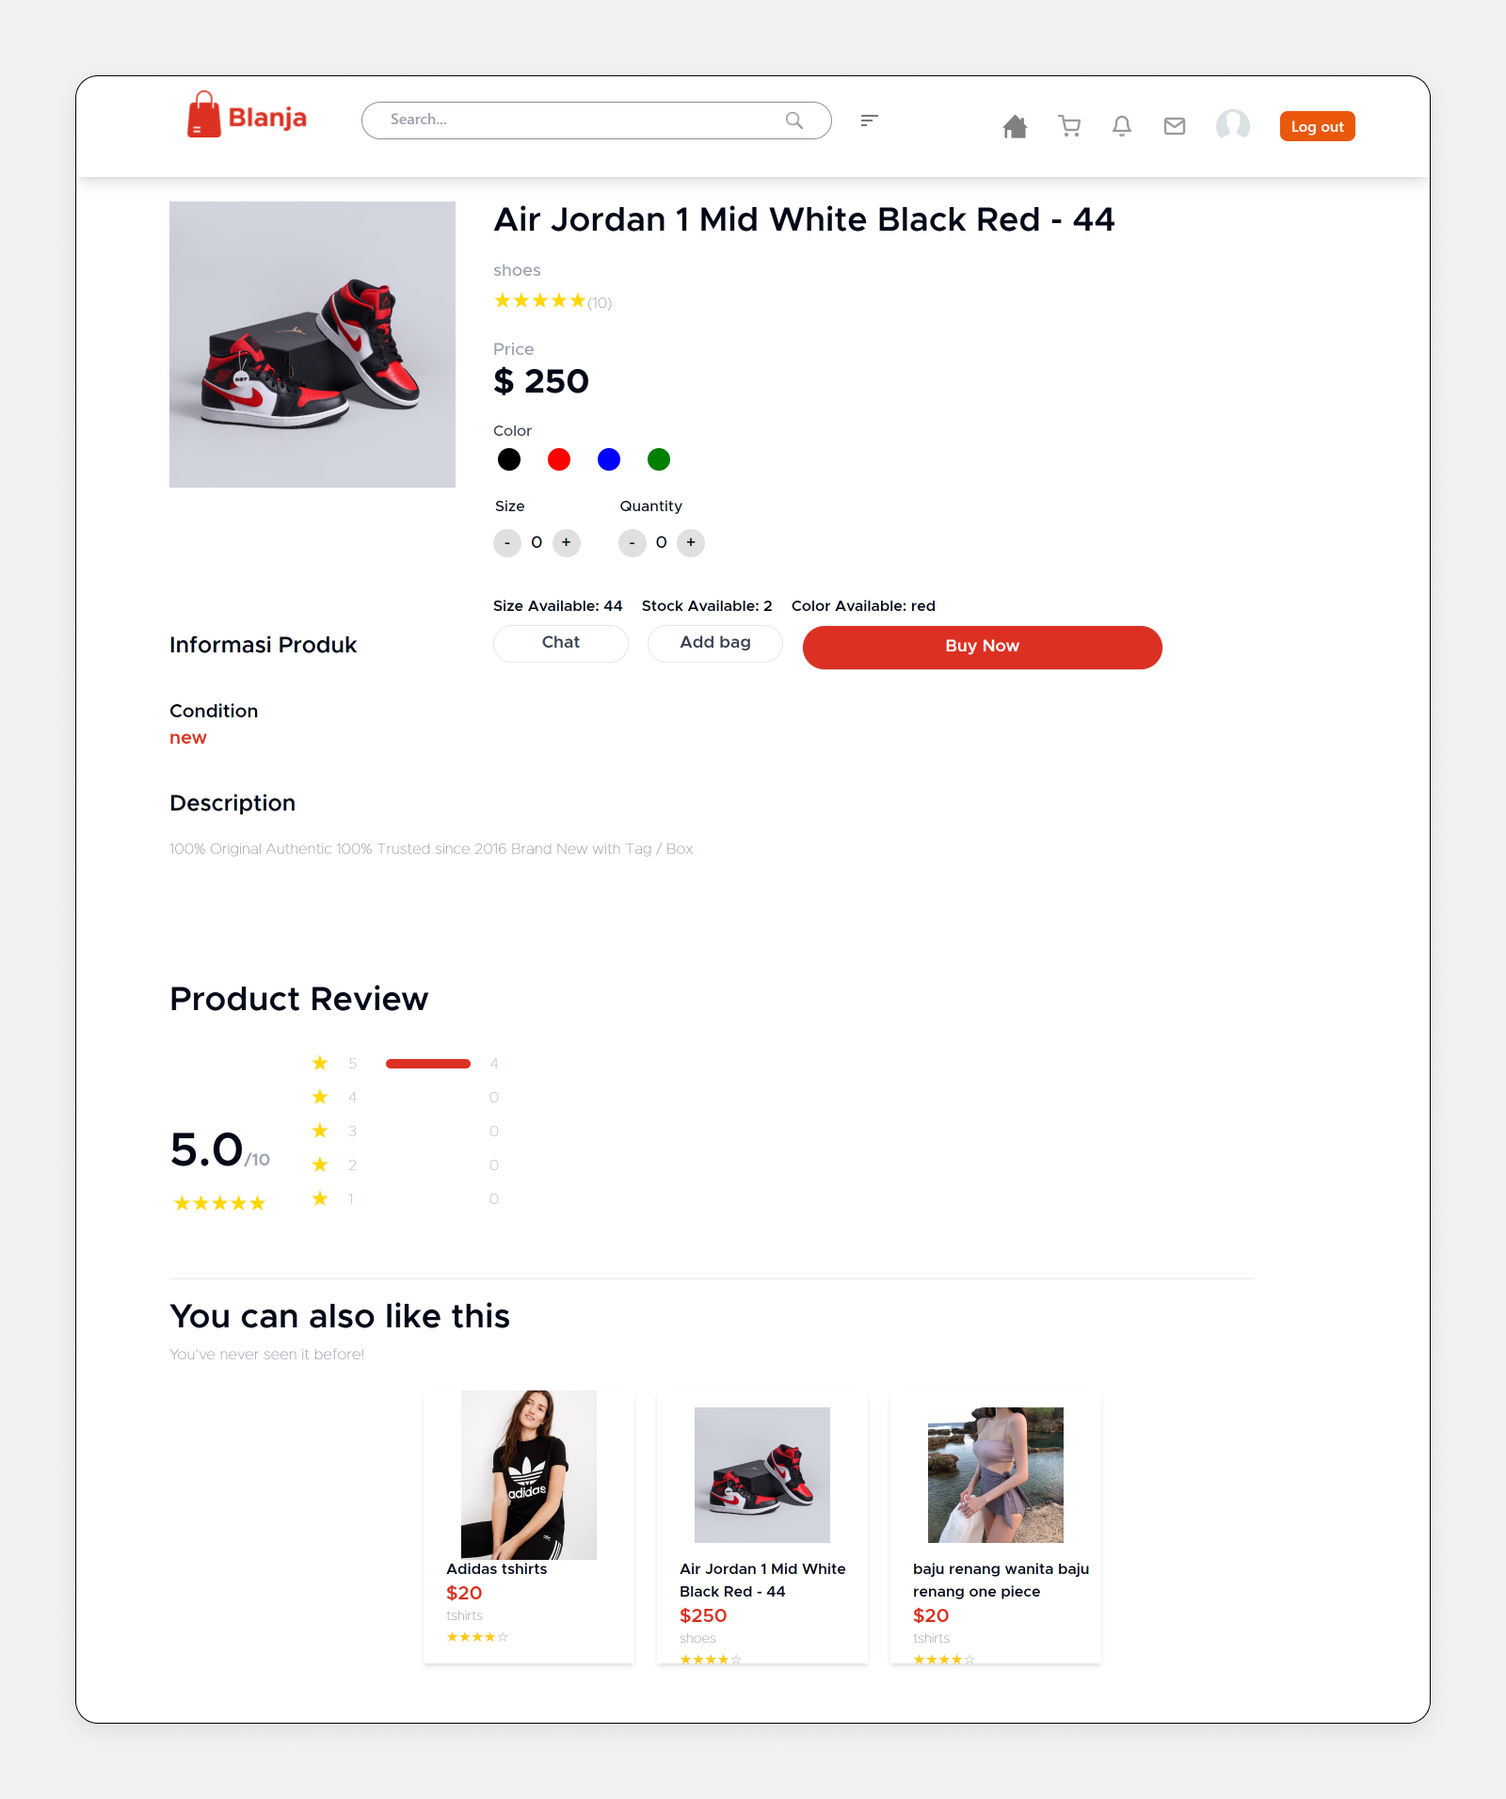
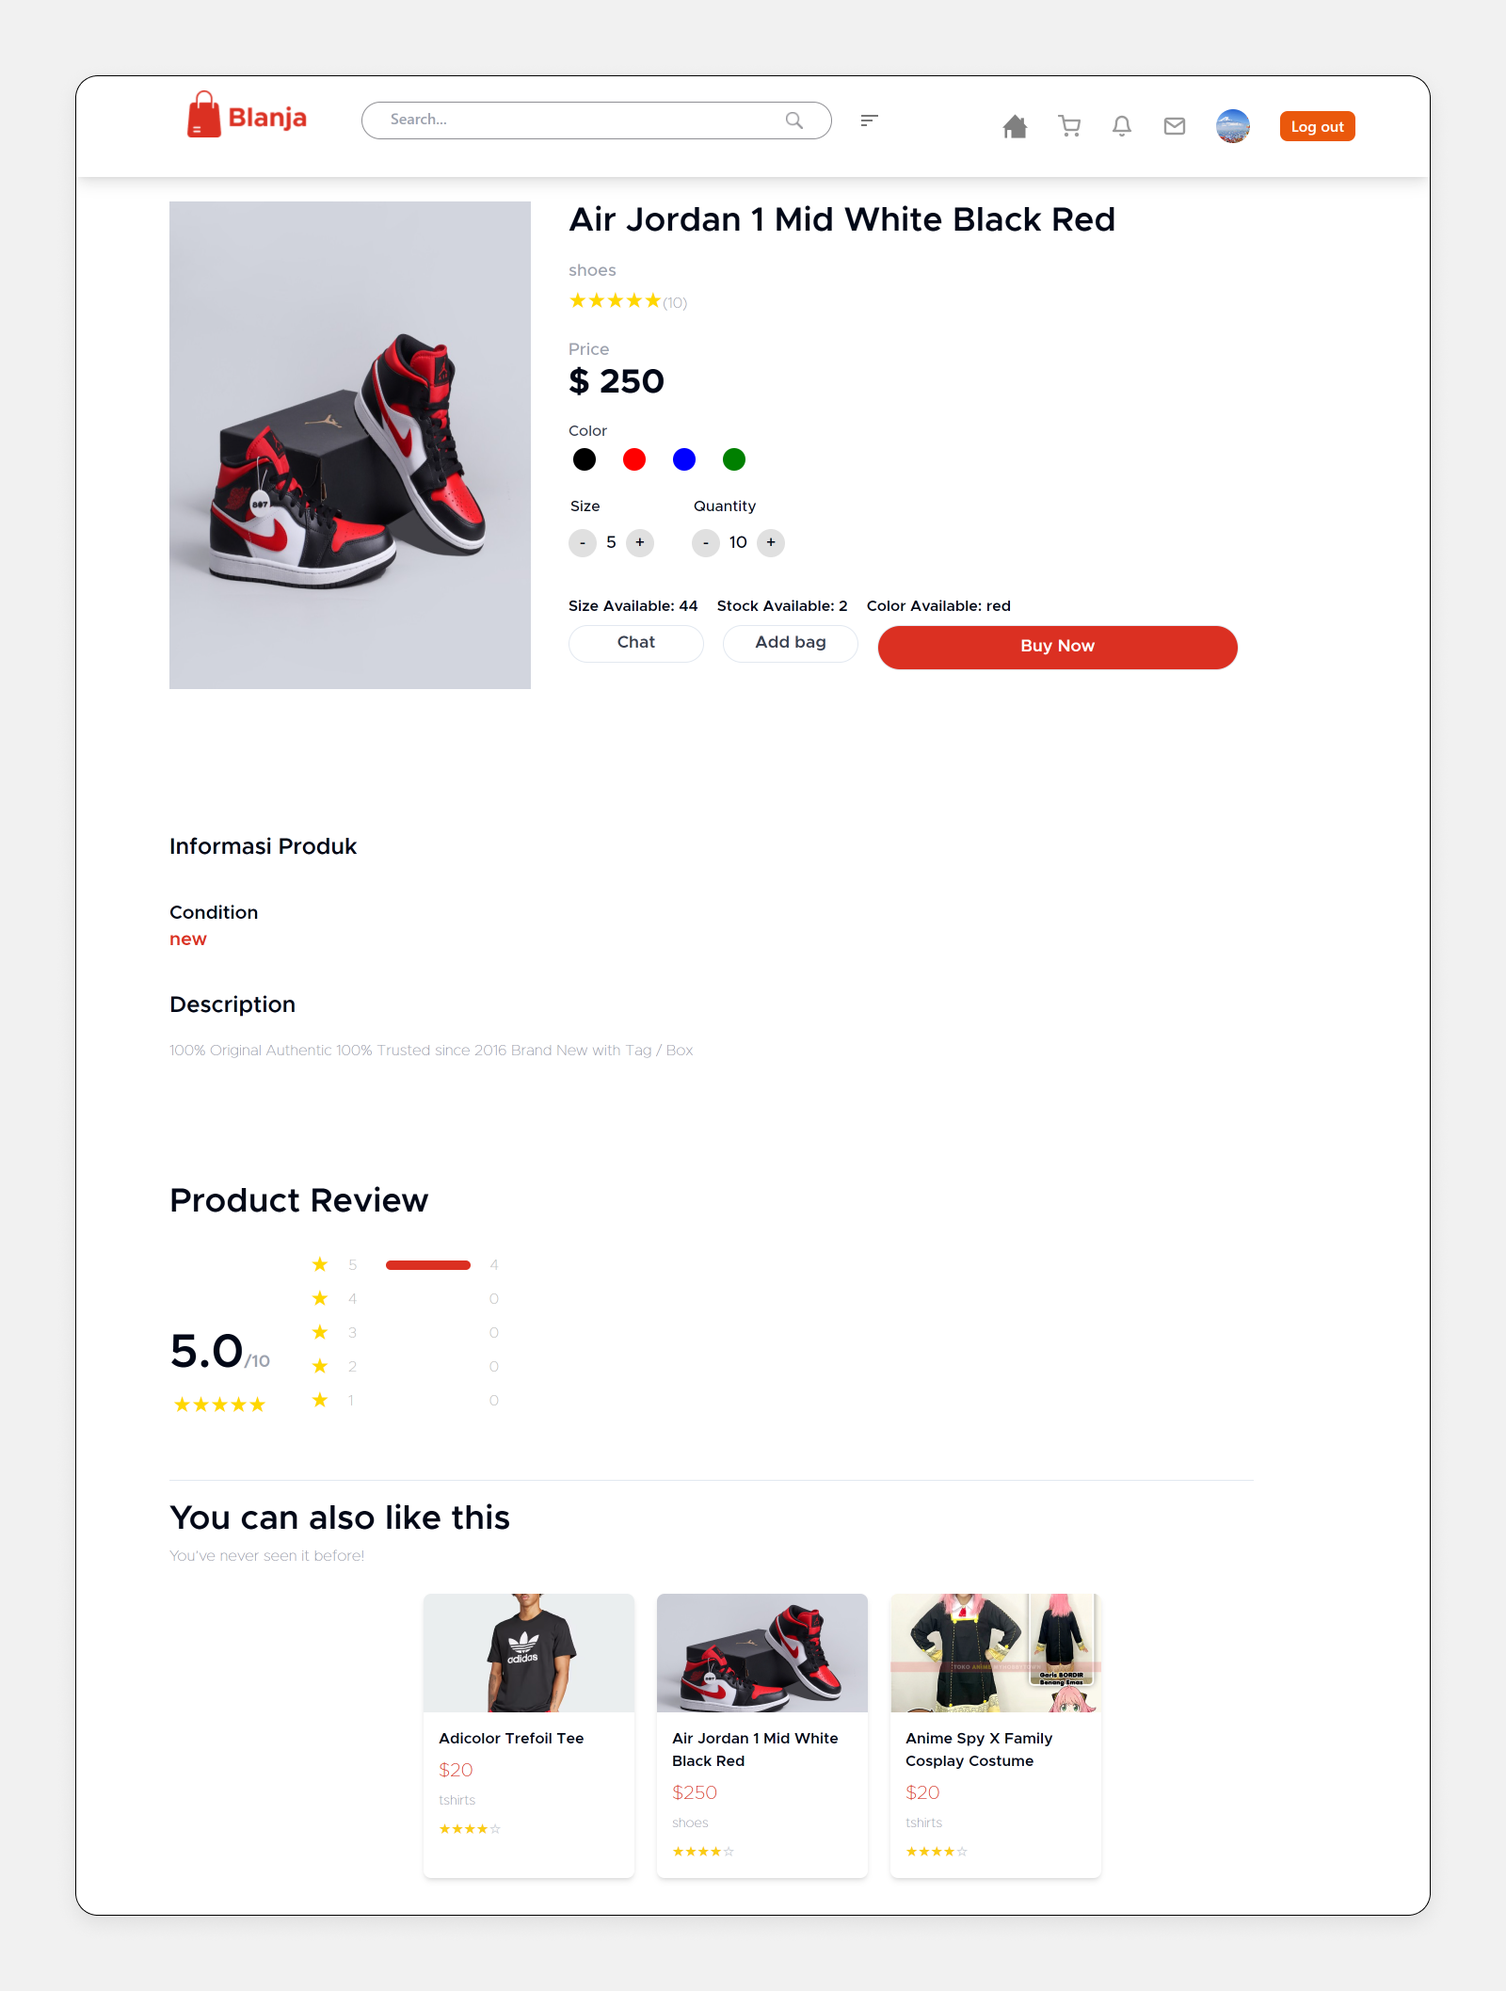
Update style

diff --git a/src/pages/product/product.jsx b/src/pages/product/product.jsx
@@ -56,12 +56,14 @@ const Product = () => {
 
     const handleAddBag = () => {
         const token = localStorage.getItem('token');
+        console.log(token);
         const orderDetails = {
             products_id: products.products_id,
             color: selectedColor,
             quantity: quantity.toString(),
             size: size.toString(),
         };
+        console.log(orderDetails);
 
         console.log('Order Details:', orderDetails);
 
@@ -116,89 +118,89 @@ const Product = () => {
                 <a href="/category">Category</a> &gt;
                 <span>T-Shirt</span>
             </nav>
-            <div>
-                <div className='flex w-96 h-96 py-10 gap-10'>
-                    {images.map((image, index) => (
-                        <img
-                            key={index}
-                            src={products.image || imageDefault}
-                            alt={`thumbnail ${index + 1}`}
-                            className='thumbnail'
-                            onClick={() => setMainImage(image)}
-                        />
-                    ))}
+
+            <div className='flex w-96 py-10 gap-10'>
+                {images.map((image, index) => (
+                    <img
+                        key={index}
+                        src={products.image || imageDefault}
+                        alt={`thumbnail ${index + 1}`}
+                        className='thumbnail'
+                        onClick={() => setMainImage(image)}
+                    />
+                ))}
+                <div>
+                    <h1 className='text-4xl font-semibold'>{products.name}</h1>
+                    <p className='text-lg font-medium text-gray-400 py-5'>{products.category}</p>
+                    <div className='relative bottom-5 text-gray-400'>
+                        {[...Array(5)].map((_, index) => (
+                            <span key={index} className='star filled'>&#9733;</span>
+                        ))}
+                        (10)
+                    </div>
                     <div>
-                        <h1 className='text-4xl font-semibold'>{products.name}</h1>
-                        <p className='text-lg font-medium text-gray-400 py-5'>{products.category}</p>
-                        <div className='relative bottom-5 text-gray-400'>
-                            {[...Array(5)].map((_, index) => (
-                                <span key={index} className='star filled'>&#9733;</span>
+                        <p className='text-lg font-medium text-gray-400'>Price</p>
+                        <h1 className='text-4xl font-bold'>$ {products.price}</h1>
+                    </div>
+                    <div className='py-5'>
+                        <p className='text-gray-700 font-medium'>Color</p>
+                        <div className='color-options'>
+                            {colors.map((color) => (
+                                <label key={color.value} className='color-label'>
+                                    <input
+                                        type='radio'
+                                        name='color'
+                                        value={color.value}
+                                        checked={selectedColor === color.value}
+                                        onChange={() => setSelectedColor(color.value)}
+                                    />
+                                    <span className='color-circle' style={{ backgroundColor: color.value }}></span>
+                                </label>
                             ))}
-                            (10)
                         </div>
-                        <div>
-                            <p className='text-lg font-medium text-gray-400'>Price</p>
-                            <h1 className='text-4xl font-bold'>$ {products.price}</h1>
-                        </div>
-                        <div className='py-5'>
-                            <p className='text-gray-700 font-medium'>Color</p>
-                            <div className='color-options'>
-                                {colors.map((color) => (
-                                    <label key={color.value} className='color-label'>
-                                        <input
-                                            type='radio'
-                                            name='color'
-                                            value={color.value}
-                                            checked={selectedColor === color.value}
-                                            onChange={() => setSelectedColor(color.value)}
-                                        />
-                                        <span className='color-circle' style={{ backgroundColor: color.value }}></span>
-                                    </label>
-                                ))}
-                            </div>
-                            <div className='addproduct flex flex-row gap-10 py-5 font-medium'>
-                                <div>
-                                    <label className='right-4 z-0'>Size</label>
-                                    <div className='control py-3'>
-                                        <button onClick={() => handleSizeChange(-1)}>-</button>
-                                        <span>{size}</span>
-                                        <button onClick={() => handleSizeChange(+1)}>+</button>
-                                    </div>
-                                </div>
-                                <div>
-                                    <label className='right-4 z-0'>Quantity</label>
-                                    <div className='control py-3'>
-                                        <button onClick={() => handleQuantityChange(-1)}>-</button>
-                                        <span>{quantity}</span>
-                                        <button onClick={() => handleQuantityChange(+1)}>+</button>
-                                    </div>
+                        <div className='addproduct flex flex-row gap-10 py-5 font-medium'>
+                            <div>
+                                <label className='right-4 z-0'>Size</label>
+                                <div className='control py-3'>
+                                    <button onClick={() => handleSizeChange(-1)}>-</button>
+                                    <span>{size}</span>
+                                    <button onClick={() => handleSizeChange(+1)}>+</button>
                                 </div>
                             </div>
-                            <div className='flex flex-1 flex-row gap-5 text-nowrap font-semibold py-2'>
-                                <p>Size Available: {products.size}</p>
-                                <p>Stock Available: {products.stock}</p>
-                                <p>Color Available: {products.color}</p>
+                            <div>
+                                <label className='right-4 z-0'>Quantity</label>
+                                <div className='control py-3'>
+                                    <button onClick={() => handleQuantityChange(-1)}>-</button>
+                                    <span>{quantity}</span>
+                                    <button onClick={() => handleQuantityChange(+1)}>+</button>
+                                </div>
                             </div>
-                            <div className='flex flex-row gap-5 text-center z-30'>
-                                <ButtonWhite
-                                    className="bg-white w-36 text-gray-700 hover:text-white"
-                                    name="Chat"
-                                />
-                                <ButtonWhite
-                                    className="bg-white w-36 text-gray-700 hover:text-white"
-                                    name="Add bag"
-                                    onClick={handleAddBag}
-                                />
-                                <Button
-                                    name="Buy Now"
-                                    onClick={handleBuyNow}
-                                />
-                            </div>
+                        </div>
+                        <div className='flex flex-1 flex-row gap-5 text-nowrap font-semibold py-2'>
+                            <p>Size Available: {products.size}</p>
+                            <p>Stock Available: {products.stock}</p>
+                            <p>Color Available: {products.color}</p>
+                        </div>
+                        <div className='flex flex-row gap-5 text-center z-30'>
+                            <ButtonWhite
+                                className="bg-white w-36 text-gray-700 hover:text-white"
+                                name="Chat"
+                            />
+                            <ButtonWhite
+                                className="bg-white w-36 text-gray-700 hover:text-white"
+                                name="Add bag"
+                                onClick={handleAddBag}
+                            />
+                            <Button
+                                name="Buy Now"
+                                onClick={handleBuyNow}
+                            />
                         </div>
                     </div>
-                    <ToastContainer position='bottom-right' />
                 </div>
+                <ToastContainer position='bottom-right' />
             </div>
+
             <div className='flex flex-col py-28 gap-10'>
                 <div>
                     <ProductInfo products={products} />

diff --git a/src/pages/search/search.jsx b/src/pages/search/search.jsx
@@ -36,7 +36,7 @@ const SearchPage = () => {
 
         if (sortBy === 'asc') {
           result.sort((a, b) => (a.name > b.name) ? 1 : -1);
-        }else {
+        } else {
           result.sort((a, b) => (a.name < b.name) ? 1 : -1);
         }
         const { limit, page, totalData, totalPage } = res.data.pagination;
@@ -79,18 +79,19 @@ const SearchPage = () => {
       <h1 className='text-4xl font-semibold'>Find Product</h1>
       <p className='text-md text-gray-400 py-2'>Let’s Find Something New!</p>
       <div className='flex py-10 z-20 justify-center'>
-      <button className='bg-red-maroon text-white font-semibold px-4 py-2 rounded mr-2 hover:bg-orange-500' onClick={handleSortAsc}>
+        <button className='bg-red-maroon text-white font-semibold px-4 py-2 rounded mr-2 hover:bg-orange-500' onClick={handleSortAsc}>
           ASC
         </button>
         <button className='bg-red-maroon text-white font-semibold px-4 py-2 rounded hover:bg-orange-500' onClick={handleSortDesc}>
           DESC
         </button>
       </div>
-      <div className='grid-container'>
-        {products.length > 0 ? (
-          products.map((item) => (
-            <div className='grid-item' key={item.products_id}>
+      <div className='flex justify-center'>
+        <div className='grid grid-cols-5 gap-4'>
+          {products.length > 0 ? (
+            products.map((item) => (
               <Card
+                key={item.products_id}
                 image={item.image || imageDefault}
                 name={item.name}
                 price={item.price}
@@ -98,11 +99,11 @@ const SearchPage = () => {
                 rating={4.5}
                 onClick={() => navigate(`/products/${item.products_id}`)}
               />
-            </div>
-          ))
-        ) : (
-          <p>No products found</p>
-        )}
+            ))
+          ) : (
+            <p>No products found</p>
+          )}
+        </div>
       </div>
       <div className='flex justify-center gap-4 py-10'>
         <button

diff --git a/src/components/module/RegisterSeller.jsx b/src/components/module/RegisterSeller.jsx
@@ -61,7 +61,7 @@ const RegisterSeller = () => {
           onChange={handleChange}
           name="name"
           label=""
-          placeholder="Masukkan nama"
+          placeholder="Enter name"
         />
         <Input
           type='email'
@@ -69,7 +69,7 @@ const RegisterSeller = () => {
           onChange={handleChange}
           name="email"
           label=""
-          placeholder="Masukkan email"
+          placeholder="Enter email"
         />
         <Input
           type='tel'
@@ -77,7 +77,7 @@ const RegisterSeller = () => {
           onChange={handleChange}
           name="phone"
           label=""
-          placeholder="Masukkan telepon"
+          placeholder="Enter phone number"
         />
         <Input
           type='text'
@@ -85,7 +85,7 @@ const RegisterSeller = () => {
           onChange={handleChange}
           name="store_name"
           label=""
-          placeholder="Masukkan nama toko"
+          placeholder="Enter store name"
         />
         <Input
           type='password'
@@ -93,7 +93,7 @@ const RegisterSeller = () => {
           onChange={handleChange}
           name="password"
           label=""
-          placeholder="Masukkan password"
+          placeholder="Enter password"
         />
       </div>
       <Button className='w-full' onClick={handleRegister} text='Sign up' />

diff --git a/src/components/module/RegisterCustomer.jsx b/src/components/module/RegisterCustomer.jsx
@@ -58,7 +58,7 @@ const RegisterCustomer = () => {
           onChange={handleChange}
           name="name"
           label=""
-          placeholder="Masukkan nama"
+          placeholder="Enter name"
         />
         <Input
           type='email'
@@ -66,7 +66,7 @@ const RegisterCustomer = () => {
           onChange={handleChange}
           name="email"
           label=""
-          placeholder="Masukkan email"
+          placeholder="Enter email"
         />
         <Input
           type='password'
@@ -74,7 +74,7 @@ const RegisterCustomer = () => {
           onChange={handleChange}
           name="password"
           label=""
-          placeholder="Masukkan password"
+          placeholder="Enter password"
         />
       </div>
       <Button className='w-full' onClick={handleRegister} text='Sign up' />

diff --git a/src/components/base/CartCard.jsx b/src/components/base/CartCard.jsx
@@ -14,9 +14,8 @@ const CartCard = ({ photo = ProductThumbnail, name = "Product Name", store = "St
                 {/* <input type="checkbox" name="" id="" /> */}
                 <img className='size-16 rounded-md object-cover' src={photo} alt="" />
                 <div className='flex flex-col gap-1 justify-center'>
-                    <div className='flex gap-2'>
+                    <div className='flex flex-col gap-1'>
                         <p className='font-medium text-base'>{name}</p>
-                        <p className='font-medium text-base'>-</p>
                         <p className='font-medium text-base'>( {color} / {size} )</p>
                     </div>
 

diff --git a/src/pages/Auth/Register.jsx b/src/pages/Auth/Register.jsx
@@ -38,7 +38,7 @@ const Register = () => {
                             <RegisterSeller />
                         </div>
                     </div>
-                    <p className="w-full text-center font-normal text-base text-[#1F2A36] max-lg:text-sm">Already have a Tokopedia account? <Link className="text-[#DB3022]" to="/auth/login">Login</Link></p>
+                    <p className="w-full text-center font-normal text-base text-[#1F2A36] max-lg:text-sm">Already have a Blanja account? <Link className="text-[#DB3022]" to="/auth/login">Login</Link></p>
                 </div>
             </div>
         </div>

diff --git a/src/components/module/profile/profilebar.jsx b/src/components/module/profile/profilebar.jsx
@@ -26,7 +26,7 @@ const Profilebar = ({ name, image }) => {
     }
 
     return (
-        <div className='flex flex-row bg-white shadow-md w-96 h-208 py-36 px-28 gap-5 z-0'>
+        <div className='flex flex-row bg-white shadow-md w-96 h-208 py-36 px-16 gap-5 z-0'>
             <img src={image} alt={`${name}'s profile`} className='w-20 h-20 rounded-full object-cover' /> 
             <div className='flex flex-col py-3'>
             <h1 className='text-lg font-semibold text-nowrap'>{name}</h1>

diff --git a/src/components/loginCustomer.jsx b/src/components/loginCustomer.jsx
@@ -126,7 +126,7 @@ const LoginCustomer = () => {
         </div>
         {/* <ToastContainer position='bottom-right' /> */}
         <div className='flex justify-center'>
-          <p>Don&#39;t have a Tokopedia account?{' '}
+          <p>Don&#39;t have a Blanja account?{' '}
           <span onClick={handleRegister} className='text-red-maroon hover:font-semibold hover:text-orange-500 cursor-pointer'>
               Register
           </span>

diff --git a/src/components/loginSeller.jsx b/src/components/loginSeller.jsx
@@ -127,7 +127,7 @@ const loginSeller = () => {
         </div>
         {/* <ToastContainer position='bottom-right' /> */}
         <div className='flex justify-center'>
-        <p>Don&#39;t have a Tokopedia account?{' '} 
+        <p>Don&#39;t have a Blanja account?{' '} 
         <span onClick={handleRegister} className='text-red-maroon hover:font-semibold hover:text-orange-500 cursor-pointer'>
             Register
         </span>
